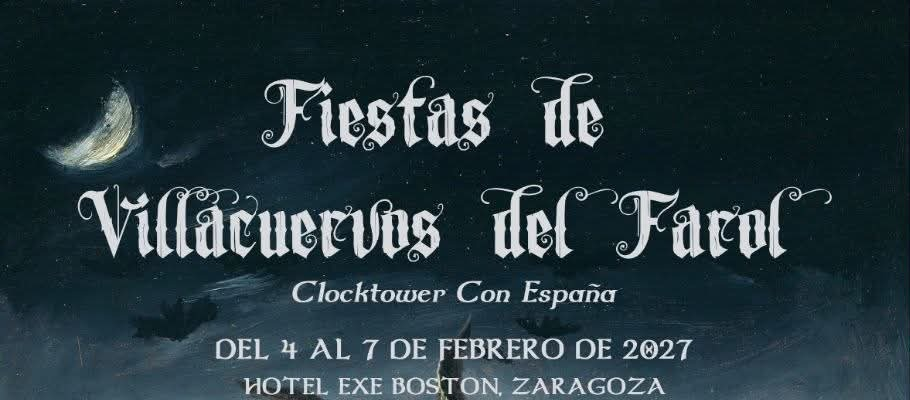
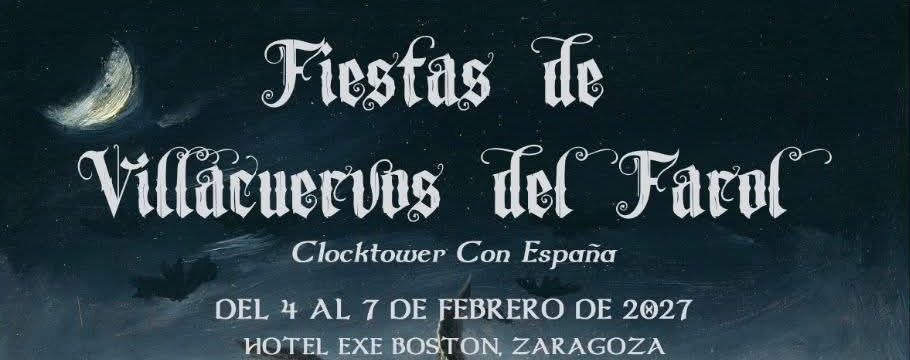
bsnn

diff --git a/style.css b/style.css
@@ -31,7 +31,7 @@ a:focus-visible, button:focus-visible { outline: 2px solid var(--c-cine); outlin
 
 .promo-banner {
   display: block;
-  max-width: 960px;
+  max-width: 460px;
   margin: 0 auto;
 }
 
